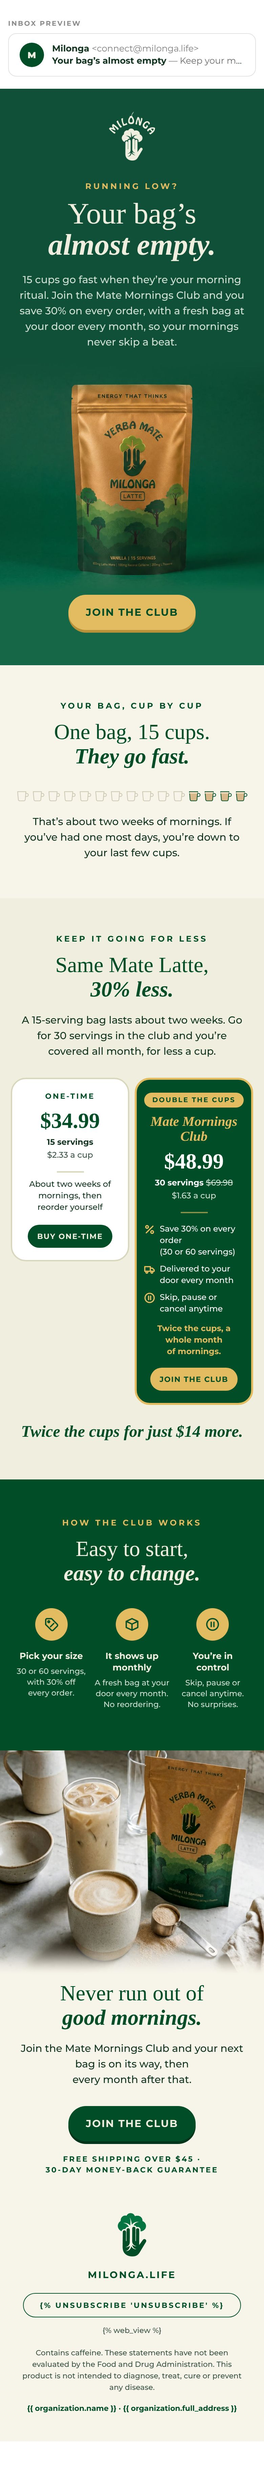
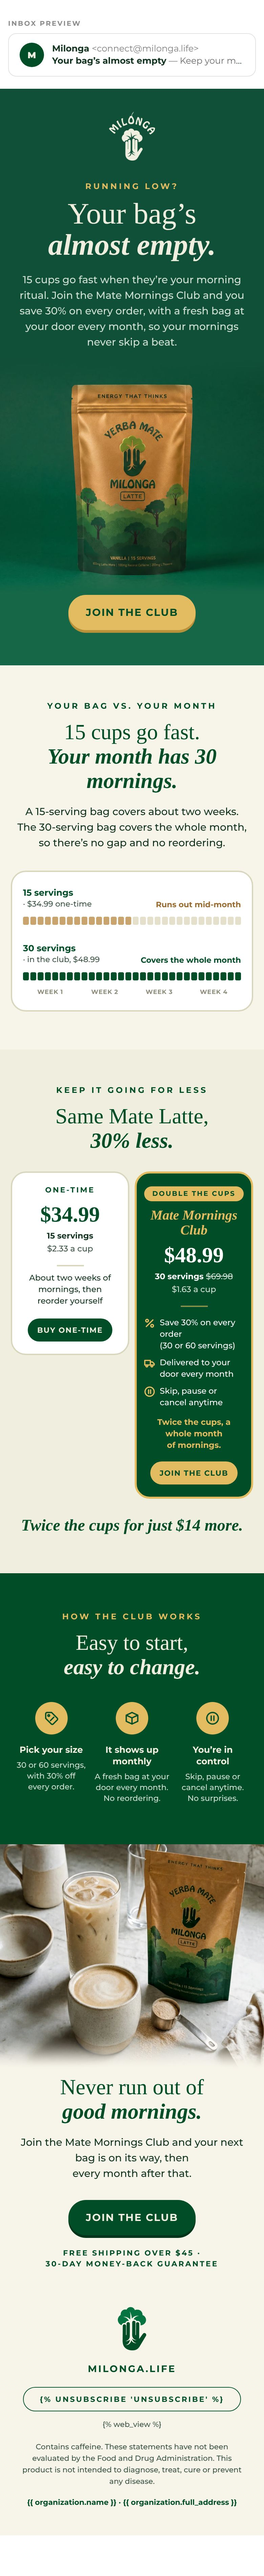
Post-purchase E3: '15 servings vs 30' month graphic
Claude-Session: https://claude.ai/code/session_01NhEtXPnfeCJfN73SqBkUZ5

Changed region(s): [[0.0, 0.0, 1.0, 0.9688], [0.0923, 0.0, 0.1538, 0.0312], [0.7077, 0.0, 0.7385, 0.0312]]

diff --git a/email-ds/refine/pp1-e3.html b/email-ds/refine/pp1-e3.html
@@ -24,7 +24,12 @@ body{margin:0;background:#FFFFFF;padding:28px 0 60px}
     .h-hero { font-size:44px !important; line-height:46px !important; }
     .h-sec { font-size:32px !important; line-height:36px !important; }
     .lead { font-size:15px !important; line-height:23px !important; }
-    .cups { width:100% !important; height:auto !important; }
+    .month-card { padding:22px 16px 20px !important; }
+    .month-label { font-size:13px !important; line-height:17px !important; }
+    .month-price { display:block !important; font-size:11.5px !important; }
+    .month-dot { display:none !important; }
+    .month-verdict { font-size:11.5px !important; line-height:15px !important; }
+    .month-wk { font-size:9px !important; letter-spacing:.5px !important; }
     .cmp-l { padding-right:4px !important; }
     .cmp-r { padding-left:4px !important; }
     .cmp-card { padding:18px 10px 18px !important; }
@@ -70,17 +75,32 @@ body{margin:0;background:#FFFFFF;padding:28px 0 60px}
 <![endif]--><!--[if !mso]><!-- --><a href="https://milonga.life/products/the-original-mate-latte?utm_source=klaviyo&amp;utm_medium=email&amp;utm_campaign=post_purchase_mate_latte&amp;utm_content=pp3_hero_button" target="_blank" class="btn" style="display:inline-block;background-color:#E3BC62;border-radius:999px;padding:20px 40px;font-family:'Montserrat','Helvetica Neue',Helvetica,Arial,sans-serif;font-size:16px;line-height:16px;font-weight:700;letter-spacing:2px;text-transform:uppercase;white-space:nowrap;color:#004D27;text-decoration:none;box-shadow:0 4px 0 #B8913A;">Join the club</a><!--<![endif]-->
 </td></tr>
 
-<!-- ── 2 · ONE BAG, 15 CUPS: the cups already had, and the last few ── -->
+<!-- ── 2 · 15 SERVINGS VS 30: a month of mornings, one segment a day. The
+     15-serving bag covers half of it; the 30-serving bag (in the club) all of it ── -->
 <tr><td class="pad bg-cream" align="center" bgcolor="#F7F4EA" style="background-color:#F7F4EA;padding:52px 40px 0;font-family:'Montserrat','Helvetica Neue',Helvetica,Arial,sans-serif;">
-<div style="font-size:12px;line-height:16px;font-weight:700;letter-spacing:3px;text-transform:uppercase;color:#004D27;">Your bag, cup by cup</div>
-<div class="h-sec" style="padding-top:12px;font-family:'Times New Roman',Times,Georgia,serif;font-size:40px;line-height:44px;font-weight:400;color:#004D27;">One bag, 15 cups.</div>
-<div class="h-sec" style="font-family:'Times New Roman',Times,Georgia,serif;font-size:40px;line-height:44px;font-weight:700;font-style:italic;color:#004D27;">They go fast.</div>
+<div style="font-size:12px;line-height:16px;font-weight:700;letter-spacing:3px;text-transform:uppercase;color:#004D27;">Your bag vs. your month</div>
+<div class="h-sec" style="padding-top:12px;font-family:'Times New Roman',Times,Georgia,serif;font-size:40px;line-height:44px;font-weight:400;color:#004D27;">15 cups go fast.</div>
+<div class="h-sec" style="font-family:'Times New Roman',Times,Georgia,serif;font-size:40px;line-height:44px;font-weight:700;font-style:italic;color:#004D27;">Your month has 30 mornings.</div>
+<div class="lead" style="padding-top:16px;font-size:16px;line-height:24px;font-weight:500;color:#12331F;">A 15-serving bag covers about two weeks. The 30-serving bag covers the whole month, so there&rsquo;s <span style="white-space:nowrap;">no gap</span> <span style="white-space:nowrap;">and no reordering.</span></div>
 </td></tr>
-<tr><td class="pad bg-cream" align="center" bgcolor="#F7F4EA" style="background-color:#F7F4EA;padding:30px 48px 0;font-family:'Montserrat','Helvetica Neue',Helvetica,Arial,sans-serif;">
-<img class="cups" src="../exports/klaviyo/pp1-e3/img/cups.png" width="504" height="32" alt="Fifteen cups: most of them already had, the last four still full" style="display:block;margin:0 auto;width:504px;height:32px;border:0;">
-</td></tr>
-<tr><td class="pad bg-cream" align="center" bgcolor="#F7F4EA" style="background-color:#F7F4EA;padding:0 40px 56px;font-family:'Montserrat','Helvetica Neue',Helvetica,Arial,sans-serif;">
-<div class="lead" style="padding-top:16px;font-size:16px;line-height:24px;font-weight:500;color:#12331F;">That&rsquo;s about two weeks of mornings. If you&rsquo;ve had one most days, you&rsquo;re down to <span style="white-space:nowrap;">your last few cups.</span></div>
+<tr><td class="pad-photo bg-cream" bgcolor="#F7F4EA" style="background-color:#F7F4EA;padding:30px 30px 56px;">
+<table role="presentation" width="100%" cellpadding="0" cellspacing="0" border="0" style="border-collapse:separate;"><tr>
+<td class="month-card" bgcolor="#FFFFFF" style="background-color:#FFFFFF;border:2px solid #D9D6BE;border-radius:22px;padding:28px 26px 24px;font-family:'Montserrat','Helvetica Neue',Helvetica,Arial,sans-serif;">
+<table role="presentation" width="100%" cellpadding="0" cellspacing="0" border="0"><tr>
+<td class="month-label" align="left" valign="bottom" style="font-family:'Montserrat','Helvetica Neue',Helvetica,Arial,sans-serif;font-size:15px;line-height:19px;font-weight:700;color:#004D27;">15 servings <span class="month-price" style="font-size:13px;font-weight:500;color:#3B5344;"><span class="month-dot">&middot; </span>$34.99 one-time</span></td>
+<td class="month-verdict" align="right" valign="bottom" style="font-family:'Montserrat','Helvetica Neue',Helvetica,Arial,sans-serif;font-size:13px;line-height:17px;font-weight:700;color:#9A6B2F;">Runs out mid-month</td>
+</tr></table>
+<img class="month-bar" src="../exports/klaviyo/pp1-e3/img/bar-15.png" width="484" height="19" alt="Half of the month&rsquo;s 30 days covered" style="display:block;margin-top:10px;width:100%;max-width:484px;height:auto;border:0;">
+<div style="height:26px;line-height:26px;font-size:0;">&nbsp;</div>
+<table role="presentation" width="100%" cellpadding="0" cellspacing="0" border="0"><tr>
+<td class="month-label" align="left" valign="bottom" style="font-family:'Montserrat','Helvetica Neue',Helvetica,Arial,sans-serif;font-size:15px;line-height:19px;font-weight:700;color:#004D27;">30 servings <span class="month-price" style="font-size:13px;font-weight:500;color:#3B5344;"><span class="month-dot">&middot; </span>in the club, $48.99</span></td>
+<td class="month-verdict" align="right" valign="bottom" style="font-family:'Montserrat','Helvetica Neue',Helvetica,Arial,sans-serif;font-size:13px;line-height:17px;font-weight:700;color:#004D27;">Covers the whole month</td>
+</tr></table>
+<img class="month-bar" src="../exports/klaviyo/pp1-e3/img/bar-30.png" width="484" height="19" alt="All 30 days of the month covered" style="display:block;margin-top:10px;width:100%;max-width:484px;height:auto;border:0;">
+<table role="presentation" width="100%" cellpadding="0" cellspacing="0" border="0" style="table-layout:fixed;margin-top:10px;"><tr>
+<td class="month-wk" width="25%" align="center" style="width:25%;font-family:'Montserrat','Helvetica Neue',Helvetica,Arial,sans-serif;font-size:11px;line-height:14px;font-weight:700;letter-spacing:1px;text-transform:uppercase;color:#8C8A78;">Week 1</td><td class="month-wk" width="25%" align="center" style="width:25%;font-family:'Montserrat','Helvetica Neue',Helvetica,Arial,sans-serif;font-size:11px;line-height:14px;font-weight:700;letter-spacing:1px;text-transform:uppercase;color:#8C8A78;">Week 2</td><td class="month-wk" width="25%" align="center" style="width:25%;font-family:'Montserrat','Helvetica Neue',Helvetica,Arial,sans-serif;font-size:11px;line-height:14px;font-weight:700;letter-spacing:1px;text-transform:uppercase;color:#8C8A78;">Week 3</td><td class="month-wk" width="25%" align="center" style="width:25%;font-family:'Montserrat','Helvetica Neue',Helvetica,Arial,sans-serif;font-size:11px;line-height:14px;font-weight:700;letter-spacing:1px;text-transform:uppercase;color:#8C8A78;">Week 4</td>
+</tr></table>
+</td></tr></table>
 </td></tr>
 
 <!-- ── 3 · ONE-TIME OR THE CLUB, SIDE BY SIDE (the cards from cart E1) ── -->
@@ -88,7 +108,6 @@ body{margin:0;background:#FFFFFF;padding:28px 0 60px}
 <div style="font-size:12px;line-height:16px;font-weight:700;letter-spacing:3px;text-transform:uppercase;color:#004D27;">Keep it going for less</div>
 <div class="h-sec" style="padding-top:12px;font-family:'Times New Roman',Times,Georgia,serif;font-size:40px;line-height:44px;font-weight:400;color:#004D27;">Same Mate Latte,</div>
 <div class="h-sec" style="font-family:'Times New Roman',Times,Georgia,serif;font-size:40px;line-height:44px;font-weight:700;font-style:italic;color:#004D27;">30% less.</div>
-<div class="lead" style="padding-top:16px;font-size:16px;line-height:24px;font-weight:500;color:#12331F;">A 15-serving bag lasts about two weeks. Go for 30 servings in the club and you&rsquo;re covered <span style="white-space:nowrap;">all month,</span> <span style="white-space:nowrap;">for less a cup.</span></div>
 </td></tr>
 <tr><td class="pad-photo bg-page" bgcolor="#F0EFDF" style="background-color:#F0EFDF;padding:28px 30px 26px;">
 <table role="presentation" width="100%" cellpadding="0" cellspacing="0" border="0" style="border-collapse:separate;"><tr>
